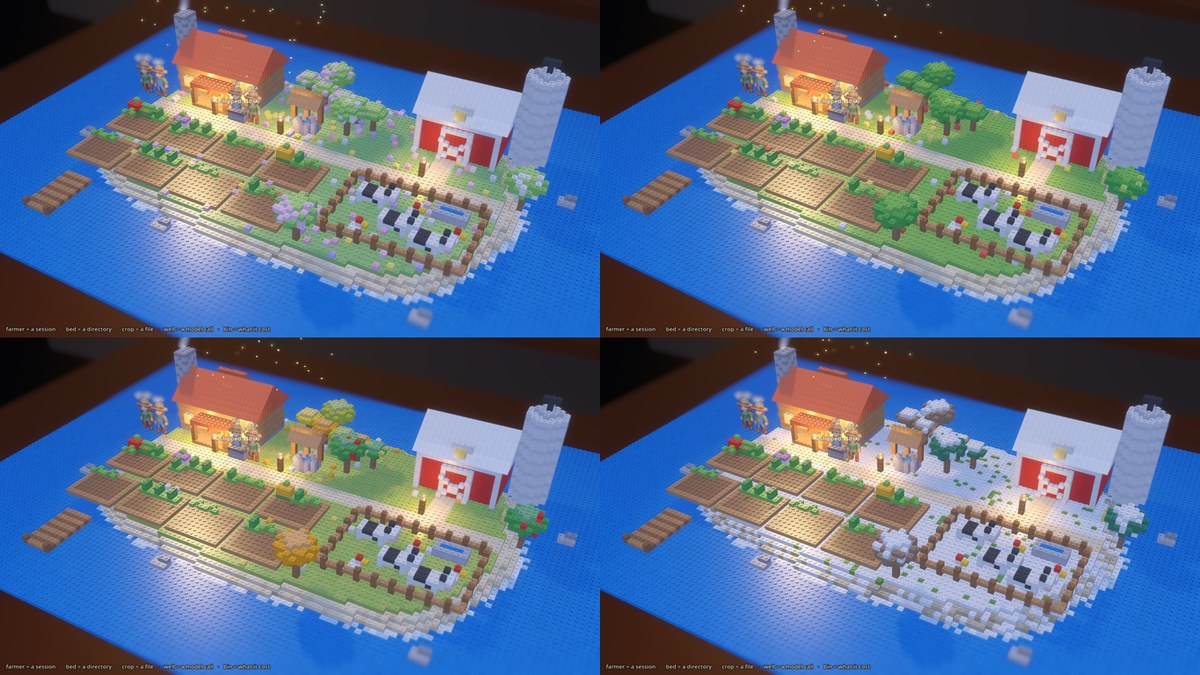
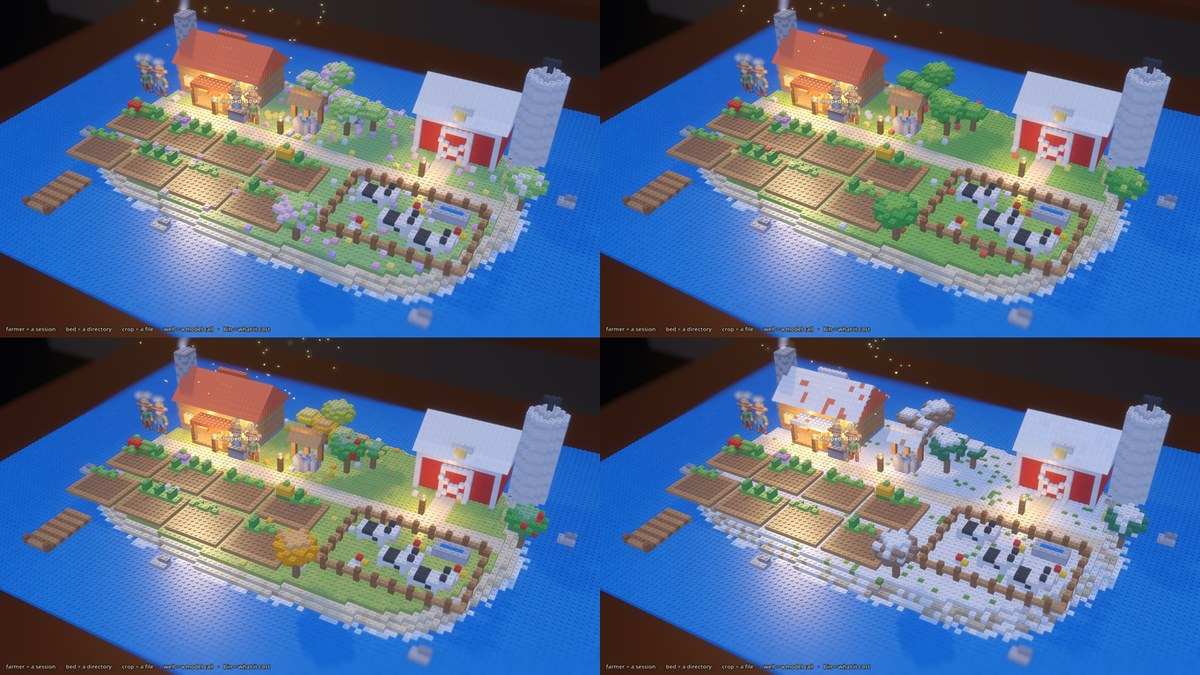
Snow on the roofs in winter
Gable roofs and the porch roof mark their bricks as roof; in winter the ones
open to the sky turn white, bar a few the wind has cleared. Each takes its
roll from its position rather than the island's random numbers, so the rest
of the island draws exactly as before.

Claude-Session: https://claude.ai/code/session_01AS1pBBMpmbqR6jmFHHvMbg

Changed region(s): [[0.6475, 0.5289, 0.74, 0.6533], [0.74, 0.6222, 0.7708, 0.6844]]

diff --git a/farm/README.md b/farm/README.md
@@ -7,7 +7,7 @@ Octopath-style pixel sprites built of tiny bricks and turned to face the camera;
 Seasons farm — a farmhouse with its shipping bin and porch lanterns, raised beds, a well by an apple
 tree, a barn and silo, a paddock of cows and hens, a pier. The island follows the farm's season:
 blossom and a meadow of flowers in spring, deep green in summer, gold trees, red apples and
-straw-flecked grass in autumn, and snow over the ground and the crowns in winter.
+straw-flecked grass in autumn, and snow over the ground, the roofs and the crowns in winter.
 
 The world is built from code: `main.gd` places bricks and sloped bricks in a grid and draws every
 visible one as an instance of one brick mesh. The farmers are read from `art/villager_a.png` and
